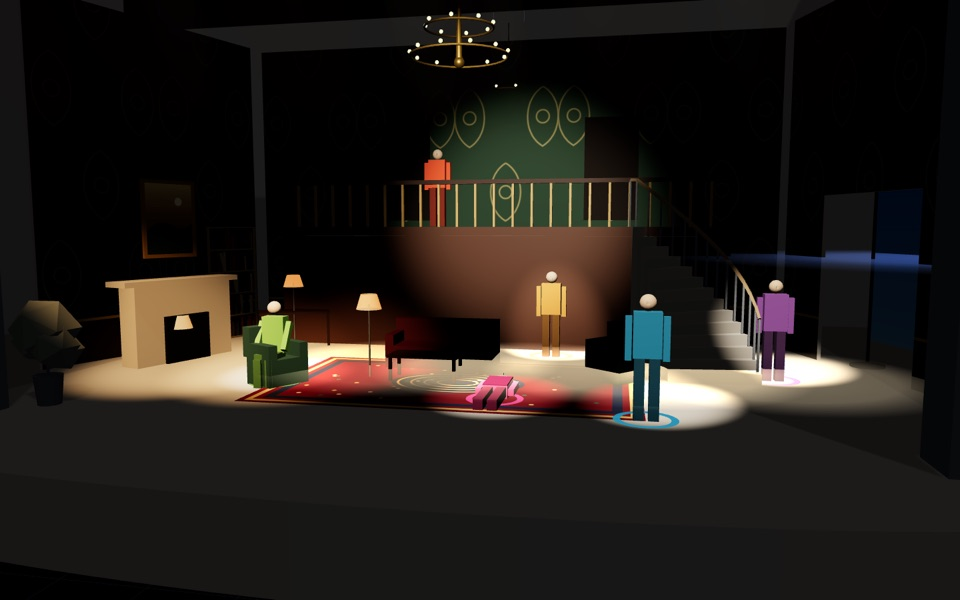
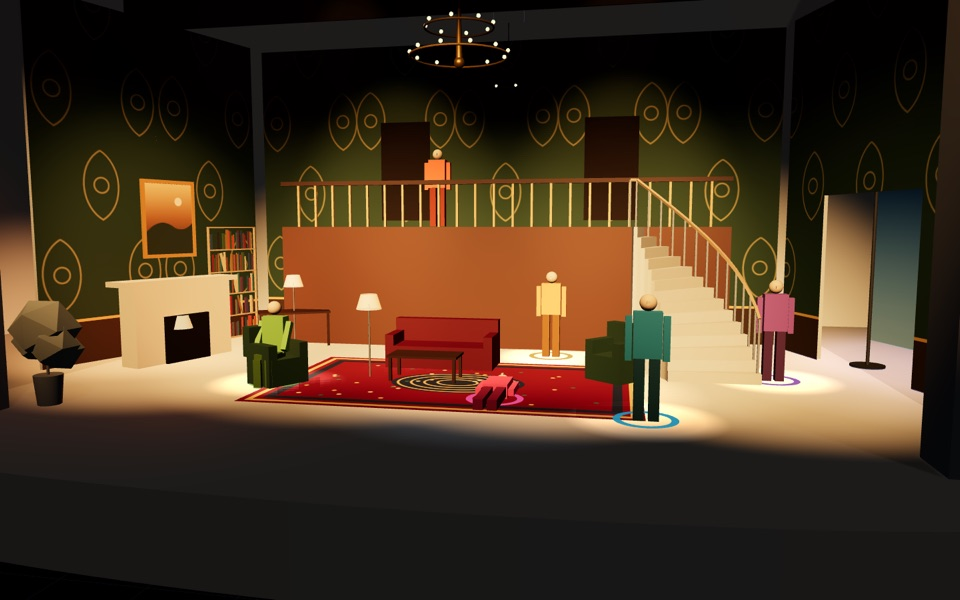
Drawing-room drama is lit brighter and warm: eight broad warm lights that the fast view draws in full, so the walls, gallery and stair show along with the cast. Opening a template replaces the earlier copy of it unless that copy was renamed. Soft pools for lights over the budget now lie on the floor

diff --git a/src/starters/showcase.ts b/src/starters/showcase.ts
@@ -380,28 +380,32 @@ const drawingRoom: ShowcaseScene = {
     useBlockingUI.getState().select(null);
     useBlockingUI.getState().setTime(0);
 
-    // Lights: room, gallery, practicals, moonlight, storm sky, lightning, the torch,
-    // and a soft light following each performer so everyone reads in every look.
-    const wash = ROW(6, (i) => light('fresnel', [(-6 + i * 2.4) * 0.7, 9.5, 4], { color: '#ffc98a', intensity: 85, beam: 26, target: [-5 + i * 2, 1.2, -4] }));
-    const gallery = ROW(3, (i) => light('fresnel', [-3 + i * 3, 8.5, -3], { color: '#ffd7a0', intensity: 60, beam: 18, target: [-3 + i * 3, 3.4, -7.7] }));
-    const practicals = [[-5.72, 0.35, -4.4], [-4.4, 1.0, -6.6], [-1.6, 0.9, -3.6]].map(([x, y, z]) => light('practical', [x, y, z], { color: '#ff8a3a', intensity: 80 }, true));
-    const moon = light('profile', [11, 6, -5.2], { color: '#8fb4ff', intensity: 70, beam: 30, gobo: 'window', target: [0.8, 0, -3] });
-    const sky = ROW(2, (i) => light('cyc', [7.8, 6, -3 - i * 3], { color: '#4a6ad8', intensity: 70, target: [9.4, 3, -6.4] }));
+    // Lights. The fast 3D view draws 8 lights for real (the brightest ones), so each look is
+    // carried by a few broad warm washes that reach the walls as well as the cast:
+    // front washes from the house, two over the gallery and back wall, one on the fireplace wall, and the fire.
+    const warm = '#ffbf78';
+    const front = [-5.4, -1.8, 1.8, 5.4].map((x) => light('fresnel', [x, 9.5, 5], { color: warm, intensity: 100, beam: 46, target: [x * 0.9, 2.0, -5.5] }));
+    const upstage = [-2.6, 2.6].map((x) => light('fresnel', [x, 9, -3.5], { color: '#ffb46a', intensity: 95, beam: 48, target: [x, 4.2, -8.6] }));
+    const side = light('fresnel', [-1, 9, -1], { color: '#ffb070', intensity: 92, beam: 44, target: [-6.4, 2.8, -5.2], name: 'Fireplace wall' });
+    const fire = light('practical', [-5.72, 0.35, -4.4], { color: '#ff7a2a', intensity: 90, name: 'Fire' }, true);
+    const lamps = [[-4.4, 1.0, -6.6], [-1.6, 0.9, -3.6]].map(([x, y, z]) => light('practical', [x, y, z], { color: '#ff9a48', intensity: 70 }, true));
+    const moon = light('profile', [11, 6, -5.2], { color: '#8fb4ff', intensity: 60, beam: 30, gobo: 'window', target: [0.8, 0, -3] });
+    const sky = ROW(2, (i) => light('cyc', [7.8, 6, -3 - i * 3], { color: '#4a6ad8', intensity: 60, target: [9.4, 3, -6.4] }));
     const lightning = ROW(2, (i) => light('moving', [5 + i * 2, 9, -2], { color: '#eef3ff', intensity: 0, beam: 10, target: [2 - i * 3, 0, -3] }));
+    // A soft light following each performer (their pool moves with them as the scene plays).
     const aims = aimPoints(0);
-    const keys = people.map((p) => {
+    const keys = people.filter((p) => p.id !== hugo?.id).map((p) => {
       const at = aims.get(p.id) ?? [0, 1.5, -4];
-      // Up on the gallery: a fixed light at their height (following aims at stage-floor height)
-      if (at[2] < -6.9) return light('fresnel', [0.5, 7.5, 2.5], { color: '#fff0dc', intensity: 95, beam: 34, target: [0.5, 3.9, at[2]], name: `Wash on ${p.name}`, purpose: p.name });
-      return light('fresnel', [at[0] * 0.6, 9, Math.min(4, at[2] + 6)], { color: '#fff0dc', intensity: 85, beam: 14, target: at, follow: p.id, name: `Wash on ${p.name}`, purpose: p.name });
+      if (at[2] < -6.9) return light('fresnel', [0.5, 7.5, 2.5], { color: '#ffd9a8', intensity: 60, beam: 34, target: [0.5, 3.9, at[2]], name: `Wash on ${p.name}`, purpose: p.name });
+      return light('fresnel', [at[0] * 0.6, 9, Math.min(4, at[2] + 6)], { color: '#ffd9a8', intensity: 60, beam: 14, target: at, follow: p.id, name: `Wash on ${p.name}`, purpose: p.name });
     });
-    const torch = light('profile', [0, 9, 10], { color: '#ffffff', intensity: 0, beam: 7, target: hugo ? (aims.get(hugo.id) ?? [0.8, 0, -2.4]) : [0.8, 0, -2.4], follow: hugo?.id, name: 'The torch' });
-    lightActions.setHaze({ on: true, density: 22 });
+    const torch = light('profile', [0, 9, 10], { color: '#fff4e0', intensity: 0, beam: 7, target: hugo ? (aims.get(hugo.id) ?? [0.8, 0, -2.4]) : [0.8, 0, -2.4], follow: hugo?.id, name: 'The torch' });
+    lightActions.setHaze({ on: true, density: 18 });
 
-    const evening = stateLook('Evening, lamps lit', [[wash, { intensity: 85, color: '#ffc98a' }], [gallery, { intensity: 60 }], [practicals, { intensity: 80 }], [[moon], { intensity: 45 }], [sky, { intensity: 55, color: '#4a6ad8' }], [lightning, { intensity: 0 }], [keys, { intensity: 95, color: '#fff0dc' }], [[torch], { intensity: 0 }]]);
-    stateLook('The storm breaks', [[wash, { intensity: 15, color: '#a9b8e0' }], [gallery, { intensity: 15 }], [practicals, { intensity: 35 }], [[moon], { intensity: 100 }], [sky, { intensity: 100, color: '#3a5ad8' }], [lightning, { intensity: 100 }], [keys, { intensity: 80, color: '#dbe4ff' }], [[torch], { intensity: 0 }]]);
-    stateLook('Blackout, one torch', [[wash, { intensity: 0 }], [gallery, { intensity: 0 }], [practicals, { intensity: 0 }], [[practicals[0]], { intensity: 45 }], [[moon], { intensity: 25 }], [sky, { intensity: 20 }], [lightning, { intensity: 0 }], [keys, { intensity: 60, color: '#b8c8ff' }], [[torch], { intensity: 100 }]]);
-    stateLook('The accusation', [[wash, { intensity: 30, color: '#ffc98a' }], [gallery, { intensity: 100, color: '#ffe2b8' }], [practicals, { intensity: 60 }], [[moon], { intensity: 60 }], [sky, { intensity: 50 }], [lightning, { intensity: 0 }], [keys, { intensity: 90, color: '#ffe8cc' }], [[torch], { intensity: 55 }]]);
+    const evening = stateLook('Evening, lamps lit', [[front, { intensity: 100, color: warm }], [upstage, { intensity: 95, color: '#ffb46a' }], [[side], { intensity: 92 }], [[fire], { intensity: 90 }], [lamps, { intensity: 70 }], [[moon], { intensity: 40 }], [sky, { intensity: 50 }], [lightning, { intensity: 0 }], [keys, { intensity: 60 }], [[torch], { intensity: 0 }]]);
+    stateLook('The storm breaks', [[front, { intensity: 75, color: '#ffae66' }], [upstage, { intensity: 45 }], [[side], { intensity: 40 }], [[fire], { intensity: 90 }], [lamps, { intensity: 50 }], [[moon], { intensity: 100 }], [sky, { intensity: 70, color: '#3a5ad8' }], [lightning, { intensity: 100 }], [keys, { intensity: 40 }], [[torch], { intensity: 0 }]]);
+    stateLook('Blackout, one torch', [[front, { intensity: 40, color: '#ff9e55' }], [upstage, { intensity: 20 }], [[side], { intensity: 15 }], [[fire], { intensity: 70 }], [lamps, { intensity: 0 }], [[moon], { intensity: 30 }], [sky, { intensity: 20 }], [lightning, { intensity: 0 }], [keys, { intensity: 0 }], [[torch], { intensity: 100 }]]);
+    stateLook('The accusation', [[front, { intensity: 80, color: warm }], [upstage, { intensity: 100, color: '#ffc488' }], [[side], { intensity: 60 }], [[fire], { intensity: 85 }], [lamps, { intensity: 60 }], [[moon], { intensity: 40 }], [sky, { intensity: 40 }], [lightning, { intensity: 0 }], [keys, { intensity: 50 }], [[torch], { intensity: 55 }]]);
     const wash2 = PRESET_LOOKS.find((p) => p.name === 'Full stage wash');
     if (wash2) {
       fadeTo(wash2.make(lighting().fixtures), 0);

diff --git a/src/components/lights/LightsLayer.tsx b/src/components/lights/LightsLayer.tsx
@@ -19,6 +19,7 @@ import { useLightsUI } from '../../lighting/ui';
 import { goboTexture, useGoboTextures } from '../../lighting/gobos';
 import { FixtureModel, PracticalModel } from './models';
 import { beamCone, hazeMaterial, poolTexture } from './haze';
+import { useFloorAt } from '../blocking/BlockingLayer';
 import { lightBudget, stageLightCount } from './budget';
 import { Plain } from '../../glossary/Plain';
 import { performerNear, useFollowTargets } from '../../lighting/follow';
@@ -155,7 +156,7 @@ function PositionView({ p, selected, active }: { p: HangPosition; selected: bool
   );
 }
 
-function FixtureView({ f, real, shadow, approx, selected, active, haze, presentation, lines }: { f: Fixture; real: boolean; shadow: boolean; approx: boolean; selected: boolean; active: boolean; haze: { on: boolean; density: number }; presentation: boolean; lines: () => HangLine[] }) {
+function FixtureView({ f, real, shadow, approx, floorY, selected, active, haze, presentation, lines }: { f: Fixture; real: boolean; shadow: boolean; approx: boolean; floorY: number; selected: boolean; active: boolean; haze: { on: boolean; density: number }; presentation: boolean; lines: () => HangLine[] }) {
   const spec = FIXTURES[f.type];
   const exporting = useExportState((s) => s.exporting);
   const target = useMemo(() => new THREE.Object3D(), []);
@@ -230,7 +231,8 @@ function FixtureView({ f, real, shadow, approx, selected, active, haze, presenta
       )}
       {real && spec.point && <pointLight position={[f.pos[0], f.pos[1] + 1.42, f.pos[2]]} color={color} intensity={level * K_POINT} distance={8} decay={1} />}
       {pool > 0 && (
-        <mesh position={[f.target[0], f.target[1] + 0.012, f.target[2]]} rotation-x={-Math.PI / 2} userData={{ lightHelper: true }} renderOrder={2}>
+        // The soft pool lies on the floor under the aim point, even when the light is aimed at someone's chest or a backdrop.
+        <mesh position={[f.target[0], floorY + 0.012, f.target[2]]} rotation-x={-Math.PI / 2} userData={{ lightHelper: true }} renderOrder={2}>
           <planeGeometry args={[pool * 2, pool * 2]} />
           <meshBasicMaterial map={poolTexture()} color={color} transparent opacity={0.55 * level} blending={THREE.AdditiveBlending} depthWrite={false} />
         </mesh>
@@ -418,6 +420,7 @@ export function LightsLayer() {
   const focusMode = useLightsUI((s) => s.focusMode);
   const presentation = quality === 'presentation' || exporting;
   const stageLights = useProjectStore((s) => stageLightCount(s.templateId, s.paramsByTemplate[s.templateId] ?? {}));
+  const floorAt = useFloorAt();
   const { real, approx, shadows } = useMemo(() => lightBudget(lighting.fixtures, presentation ? 'presentation' : 'draft', stageLights), [lighting.fixtures, presentation, stageLights]);
   const isSel = (kind: 'fixture' | 'position', id: string) => selected?.kind === kind && selected.ids.includes(id);
   // Lines are gathered when a drag starts (they depend on the stage and the set).
@@ -437,7 +440,7 @@ export function LightsLayer() {
         <PositionView key={p.id} p={p} selected={isSel('position', p.id)} active={active} />
       ))}
       {lighting.fixtures.map((f) => (
-        <FixtureView key={f.id} f={f} real={real.has(f.id)} shadow={shadows.has(f.id)} approx={approx.has(f.id)} selected={isSel('fixture', f.id)} active={active} haze={lighting.haze} presentation={presentation} lines={lines} />
+        <FixtureView key={f.id} f={f} real={real.has(f.id)} shadow={shadows.has(f.id)} approx={approx.has(f.id)} floorY={approx.has(f.id) ? floorAt(f.target[0], f.target[2]) : 0} selected={isSel('fixture', f.id)} active={active} haze={lighting.haze} presentation={presentation} lines={lines} />
       ))}
       {active && lighting.fixtures.filter((f) => !FIXTURES[f.type].point).map((f) => <Anchor key={f.id} f={f} selected={isSel('fixture', f.id)} />)}
       {active && focusMode && <FocusClick />}

diff --git a/src/starters/scenes.ts b/src/starters/scenes.ts
@@ -16,6 +16,7 @@ import { getTemplate } from '../templates/registry';
 import { storeFiles } from '../graphics/library';
 import { SHOWCASE_SCENES, type ArtIds } from './showcase';
 import { ART, renderArt, type ArtKey } from './showcaseArt';
+import { deleteProjects, refreshRecent, useRecentProjects } from '../projects/library';
 
 export interface StarterScene {
   id: string;
@@ -165,7 +166,7 @@ export const STARTER_SCENES: StarterScene[] = [
   },
 ];
 
-/** Open a starter scene as a new project (one undo step). */
+/** Open a starter scene as a new project (one undo step), replacing any earlier unrenamed copy of it. */
 export async function loadStarterScene(id: string) {
   const scene = STARTER_SCENES.find((s) => s.id === id);
   if (!scene) return;
@@ -195,4 +196,12 @@ export async function loadStarterScene(id: string) {
     useProjectStore.getState().setMode('set');
   });
   useProjectStore.getState().save();
+  // Opening a template again replaces the earlier copy of it, as long as that copy was never
+  // renamed (a renamed copy is the user's own project and stays).
+  if (scene.id !== 'scratch') {
+    await refreshRecent();
+    const current = useProjectStore.getState().projectId;
+    const old = useRecentProjects.getState().list.filter((r) => r.name === name && r.id !== current).map((r) => r.id);
+    if (old.length) await deleteProjects(old);
+  }
 }
